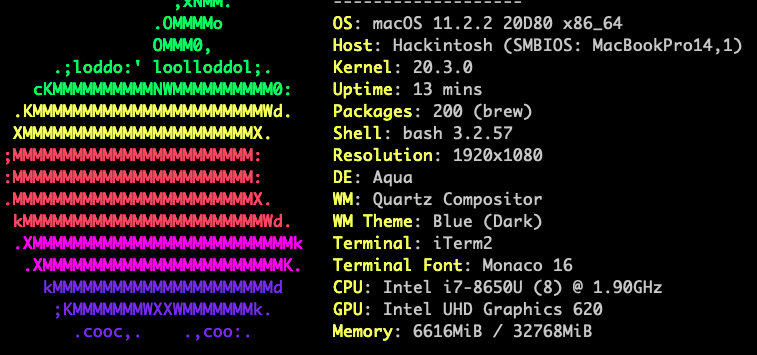
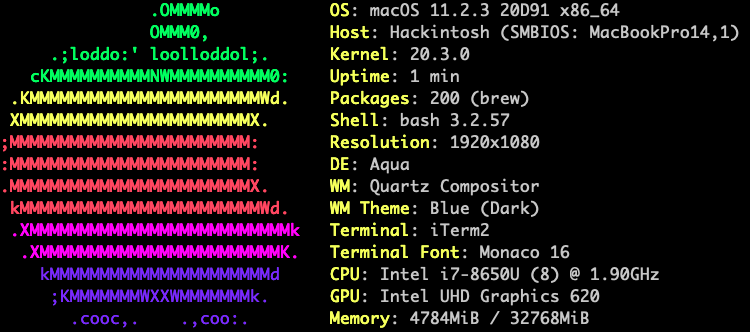
macOS 11.2.3 (20D91)

Changed region(s): [[0.4293, 0.0, 1.0, 0.994], [0.0, 0.0, 0.3987, 0.994]]

diff --git a/README.md b/README.md
@@ -14,7 +14,7 @@ Working (compared to other setup I've found):
 
 Tested with:
 * T480 i7-8650U FHD, 32GB RAM, NVME, nvidia MX150 deactivated in DSDT/SSDT
-* macOS 11.2.2 (20D80)
+* macOS 11.2.3 (20D91)
 * Wireless DW1560, NGFF Broadcom BCM4352 802.11ac with PCID [14e4:43b1]
 * Wireless DW1820a : use config.DW1820a.plist
 * CPU i7-8650U : use https://github.com/stevezhengshiqi/one-key-cpufriend for correct power-state/energy saving
